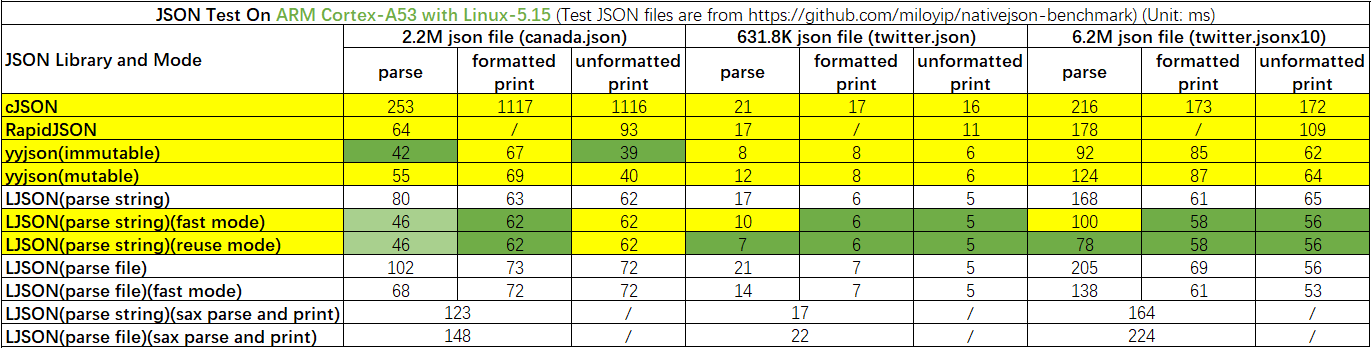
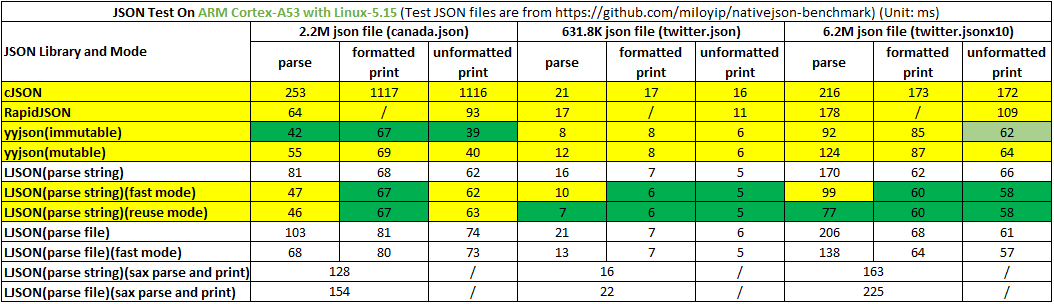
Slightly optimize parsing speed

diff --git a/json.c b/json.c
@@ -543,14 +543,14 @@ json_object* json_search_object_item(json_items_t *items, json_string_t *jkey, u
                     if (hash != items->items[i].hash)
                         break;
                     json = items->items[i].json;
-                    if (json->key_member && strcmp(jkey->str, json->key_member) == 0)
+                    if (jkey->len == json->jkey.len && memcmp(jkey->str, json->key_member, jkey->len) == 0)
                         return json;
                 }
                 for (i = middle - 1; i >= 0; --i) {
                     if (hash != items->items[i].hash)
                         break;
                     json = items->items[i].json;
-                    if (json->key_member && strcmp(jkey->str, json->key_member) == 0)
+                    if (jkey->len == json->jkey.len && memcmp(jkey->str, json->key_member, jkey->len) == 0)
                         return json;
                 }
             } else {
@@ -1345,12 +1345,11 @@ static int fname(ftype n, char *c)          \
     s[i] = '\0';                            \
                                             \
     h = i >> 1;                             \
-    while (j < h)                           \
-    {                                       \
-        t = i - j - 1;                      \
-        k = s[t];                           \
-        s[t] = s[j];                        \
-        s[j++] = k;                         \
+    while (j < h) {                         \
+        k = i - j - 1;                      \
+        t = s[k];                           \
+        s[k] = s[j];                        \
+        s[j++] = t;                         \
     }                                       \
                                             \
     return i + a;                           \
@@ -1484,17 +1483,11 @@ static int _print_str_ptr_realloc(json_print_t *print_ptr, size_t slen)
     print_ptr->cur += fname(num, print_ptr->cur);   \
 } while(0)
 
-static inline int _print_ptr_strncat(json_print_t *print_ptr, const char *str, size_t slen)
-{
-    _PRINT_PTR_REALLOC((slen + 1));
-    memcpy(print_ptr->cur, str, slen);
-    print_ptr->cur += slen;
-
-    return 0;
-err:
-    return -1;
-}
-#define _PRINT_PTR_STRNCAT(ptr, str, slen) do { if (unlikely(_print_ptr_strncat(ptr, str, slen) < 0)) goto err; } while(0)
+#define _PRINT_PTR_STRNCAT(str, slen)      do {     \
+    _PRINT_PTR_REALLOC((slen + 1));                 \
+    memcpy(print_ptr->cur, str, slen);              \
+    print_ptr->cur += slen;                         \
+} while(0)
 
 static inline int _print_addi_format(json_print_t *print_ptr, size_t depth)
 {
@@ -1620,11 +1613,11 @@ next2a:
             JsonErr("key is null!\n");
             goto err;
 #else
-            _PRINT_PTR_STRNCAT(print_ptr, "\"\":\t", 4);
+            _PRINT_PTR_STRNCAT("\"\":\t", 4);
 #endif
         } else {
             _JSON_PRINT_STRING(print_ptr, &json->jkey);
-            _PRINT_PTR_STRNCAT(print_ptr, ":\t", 2);
+            _PRINT_PTR_STRNCAT(":\t", 2);
         }
     } else {
         if (unlikely(!json->jkey.len)) {
@@ -1632,33 +1625,33 @@ next2a:
             JsonErr("key is null!\n");
             goto err;
 #else
-            _PRINT_PTR_STRNCAT(print_ptr, "\"\":", 3);
+            _PRINT_PTR_STRNCAT("\"\":", 3);
 #endif
         } else {
             _JSON_PRINT_STRING(print_ptr, &json->jkey);
-            _PRINT_PTR_STRNCAT(print_ptr, ":", 1);
+            _PRINT_PTR_STRNCAT(":", 1);
         }
     }
     goto next3;
 
 next2b:
     if (print_ptr->format_flag) {
-        if (json->type_member == JSON_OBJECT || json->type_member == JSON_ARRAY)
+        if (json->type_member == JSON_ARRAY)
             _PRINT_ADDI_FORMAT(print_ptr, item_depth + 1);
         else
-            _PRINT_PTR_STRNCAT(print_ptr, " ", 1);
+            _PRINT_PTR_STRNCAT(" ", 1);
     }
 
 next3:
     switch (json->type_member) {
     case JSON_NULL:
-        _PRINT_PTR_STRNCAT(print_ptr, "null", 4);
+        _PRINT_PTR_STRNCAT("null", 4);
         break;
     case JSON_BOOL:
         if (json->value.vnum.vbool) {
-            _PRINT_PTR_STRNCAT(print_ptr, "true", 4);
+            _PRINT_PTR_STRNCAT("true", 4);
         } else {
-            _PRINT_PTR_STRNCAT(print_ptr, "false", 5);
+            _PRINT_PTR_STRNCAT("false", 5);
         }
         break;
     case JSON_INT:
@@ -1680,24 +1673,24 @@ next3:
         break;
     case JSON_STRING:
         if (unlikely(!json->value.vstr.len)) {
-            _PRINT_PTR_STRNCAT(print_ptr, "\"\"", 2);
+            _PRINT_PTR_STRNCAT("\"\"", 2);
         } else {
             _JSON_PRINT_STRING(print_ptr, &json->value.vstr);
         }
         break;
     case JSON_OBJECT:
         if (unlikely(json->value.head.prev == (struct json_list *)&json->value.head)) {
-            _PRINT_PTR_STRNCAT(print_ptr, "{}", 2);
+            _PRINT_PTR_STRNCAT("{}", 2);
             break;
         }
-        _PRINT_PTR_STRNCAT(print_ptr, "{", 1);
+        _PRINT_PTR_STRNCAT("{", 1);
         goto next1;
     case JSON_ARRAY:
         if (unlikely(json->value.head.prev == (struct json_list *)&json->value.head)) {
-            _PRINT_PTR_STRNCAT(print_ptr, "[]", 2);
+            _PRINT_PTR_STRNCAT("[]", 2);
             break;
         }
-        _PRINT_PTR_STRNCAT(print_ptr, "[", 1);
+        _PRINT_PTR_STRNCAT("[", 1);
         goto next1;
     default:
         break;
@@ -1708,7 +1701,7 @@ next4:
     if (likely(item_depth >= 0)) {
         tmp = (json_object*)(json->list.next);
         if (likely(&tmp->list != (struct json_list *)&parent->value.head)) {
-            _PRINT_PTR_STRNCAT(print_ptr, ",", 1);
+            _PRINT_PTR_STRNCAT(",", 1);
             json = tmp;
             if (parent->type_member == JSON_OBJECT)
                 goto next2a;
@@ -1720,21 +1713,21 @@ next4:
                     if (item_depth > 0) {
                         _PRINT_ADDI_FORMAT(print_ptr, item_depth);
                     } else {
-                        _PRINT_PTR_STRNCAT(print_ptr, "\n", 1);
+                        _PRINT_PTR_STRNCAT("\n", 1);
                     }
                 }
-                _PRINT_PTR_STRNCAT(print_ptr, "}", 1);
+                _PRINT_PTR_STRNCAT("}", 1);
             } else {
                 if (print_ptr->format_flag) {
                     if (json->type_member == JSON_OBJECT || json->type_member == JSON_ARRAY) {
                         if (likely(item_depth > 0)) {
                             _PRINT_ADDI_FORMAT(print_ptr, item_depth);
                         } else {
-                            _PRINT_PTR_STRNCAT(print_ptr, "\n", 1);
+                            _PRINT_PTR_STRNCAT("\n", 1);
                         }
                     }
                 }
-                _PRINT_PTR_STRNCAT(print_ptr, "]", 1);
+                _PRINT_PTR_STRNCAT("]", 1);
             }
 
             ++print_ptr->item_count;
@@ -1883,7 +1876,7 @@ int json_sax_print_value(json_sax_print_hd handle, json_type_t type, json_string
         && !((type == JSON_ARRAY || type == JSON_OBJECT) && (*(json_sax_cmd_t*)value) == JSON_SAX_FINISH))) {
         // add ","
         if (print_handle->array[cur_pos].num > 0)
-            _PRINT_PTR_STRNCAT(print_ptr, ",", 1);
+            _PRINT_PTR_STRNCAT(",", 1);
 
         // add key
         if (print_handle->array[cur_pos].type == JSON_OBJECT) {
@@ -1894,13 +1887,13 @@ int json_sax_print_value(json_sax_print_hd handle, json_type_t type, json_string
                     goto err;
 #else
                     _PRINT_ADDI_FORMAT(print_ptr, print_handle->count);
-                    _PRINT_PTR_STRNCAT(print_ptr, "\"\":\t", 4);
+                    _PRINT_PTR_STRNCAT("\"\":\t", 4);
 #endif
                 } else {
                     _PRINT_ADDI_FORMAT(print_ptr, print_handle->count);
                     json_string_info_update(jkey);
                     _JSON_PRINT_STRING(print_ptr, jkey);
-                    _PRINT_PTR_STRNCAT(print_ptr, ":\t", 2);
+                    _PRINT_PTR_STRNCAT(":\t", 2);
                 }
             } else {
                 if (unlikely(!jkey || !jkey->str || !jkey->str[0])) {
@@ -1908,21 +1901,25 @@ int json_sax_print_value(json_sax_print_hd handle, json_type_t type, json_string
                     JsonErr("key is null!\n");
                     goto err;
 #else
-                    _PRINT_PTR_STRNCAT(print_ptr, "\"\":", 3);
+                    _PRINT_PTR_STRNCAT("\"\":", 3);
 #endif
                 } else {
                     json_string_info_update(jkey);
                     _JSON_PRINT_STRING(print_ptr, jkey);
-                    _PRINT_PTR_STRNCAT(print_ptr, ":", 1);
+                    _PRINT_PTR_STRNCAT(":", 1);
                 }
             }
         } else {
             if (print_ptr->format_flag) {
-                if (type == JSON_OBJECT || type == JSON_ARRAY) {
+                if (type == JSON_ARRAY) {
                     _PRINT_ADDI_FORMAT(print_ptr, print_handle->count);
                 } else {
-                    if (print_handle->array[cur_pos].num > 0)
-                        _PRINT_PTR_STRNCAT(print_ptr, " ", 1);
+                    if (print_handle->array[cur_pos].num > 0) {
+                        _PRINT_PTR_STRNCAT(" ", 1);
+                    } else {
+                        if (type == JSON_OBJECT)
+                            _PRINT_ADDI_FORMAT(print_ptr, print_handle->count);
+                    }
                 }
             }
         }
@@ -1931,13 +1928,13 @@ int json_sax_print_value(json_sax_print_hd handle, json_type_t type, json_string
     // add value
     switch (type) {
     case JSON_NULL:
-        _PRINT_PTR_STRNCAT(print_ptr, "null", 4);
+        _PRINT_PTR_STRNCAT("null", 4);
         break;
     case JSON_BOOL:
         if ((*(bool*)value)) {
-            _PRINT_PTR_STRNCAT(print_ptr, "true", 4);
+            _PRINT_PTR_STRNCAT("true", 4);
         } else {
-            _PRINT_PTR_STRNCAT(print_ptr, "false", 5);
+            _PRINT_PTR_STRNCAT("false", 5);
         }
         break;
 
@@ -1961,7 +1958,7 @@ int json_sax_print_value(json_sax_print_hd handle, json_type_t type, json_string
     case JSON_STRING:
         jstr = (json_string_t*)value;
         if (unlikely(!jstr || !jstr->str || !jstr->str[0])) {
-            _PRINT_PTR_STRNCAT(print_ptr, "\"\"", 2);
+            _PRINT_PTR_STRNCAT("\"\"", 2);
         } else {
             json_string_info_update(jstr);
             _JSON_PRINT_STRING(print_ptr, jstr);
@@ -1981,9 +1978,9 @@ int json_sax_print_value(json_sax_print_hd handle, json_type_t type, json_string
                 }
             }
             if (type == JSON_OBJECT) {
-                _PRINT_PTR_STRNCAT(print_ptr, "{", 1);
+                _PRINT_PTR_STRNCAT("{", 1);
             } else {
-                _PRINT_PTR_STRNCAT(print_ptr, "[", 1);
+                _PRINT_PTR_STRNCAT("[", 1);
             }
             if (print_handle->count > 0)
                 ++print_handle->array[cur_pos].num;
@@ -2008,13 +2005,13 @@ int json_sax_print_value(json_sax_print_hd handle, json_type_t type, json_string
                         }
                     }
                 } else {
-                    _PRINT_PTR_STRNCAT(print_ptr, "\n", 1);
+                    _PRINT_PTR_STRNCAT("\n", 1);
                 }
             }
             if (type == JSON_OBJECT) {
-                _PRINT_PTR_STRNCAT(print_ptr, "}", 1);
+                _PRINT_PTR_STRNCAT("}", 1);
             } else {
-                _PRINT_PTR_STRNCAT(print_ptr, "]", 1);
+                _PRINT_PTR_STRNCAT("]", 1);
             }
             --print_handle->count;
             print_handle->last_type = type;
@@ -2716,7 +2713,7 @@ next3:
         break;
 
     case 'f':
-        if (strncmp(str, "false", 5) == 0) {
+        if (likely(parse_ptr->size - parse_ptr->offset >= 5 && memcmp("false", str, 5) == 0)) {
             item->type_member = JSON_BOOL;
             item->value.vnum.vbool = false;
             _UPDATE_PARSE_OFFSET(5);
@@ -2726,7 +2723,7 @@ next3:
         }
         break;
     case 't':
-        if (strncmp(str, "true", 4) == 0) {
+        if (likely(parse_ptr->size - parse_ptr->offset >= 4 && memcmp("true", str, 4) == 0)) {
             item->type_member = JSON_BOOL;
             item->value.vnum.vbool = true;
             _UPDATE_PARSE_OFFSET(4);
@@ -2737,7 +2734,7 @@ next3:
         break;
 
     case 'n':
-        if (strncmp(str, "null", 4) == 0) {
+        if (likely(parse_ptr->size - parse_ptr->offset >= 4 && memcmp("null", str, 4) == 0)) {
             item->type_member = JSON_NULL;
             _UPDATE_PARSE_OFFSET(4);
         } else {
@@ -3119,7 +3116,7 @@ next3:
         break;
 
     case 'f':
-        if (strncmp(str, "false", 5) == 0) {
+        if (likely(parse_ptr->size - parse_ptr->offset >= 5 && memcmp("false", str, 5) == 0)) {
             item->type_member = JSON_BOOL;
             item->value.vnum.vbool = false;
             _UPDATE_PARSE_OFFSET(5);
@@ -3129,7 +3126,7 @@ next3:
         }
         break;
     case 't':
-        if (strncmp(str, "true", 4) == 0) {
+        if (likely(parse_ptr->size - parse_ptr->offset >= 4 && memcmp("true", str, 4) == 0)) {
             item->type_member = JSON_BOOL;
             item->value.vnum.vbool = true;
             _UPDATE_PARSE_OFFSET(4);
@@ -3140,7 +3137,7 @@ next3:
         break;
 
     case 'n':
-        if (strncmp(str, "null", 4) == 0) {
+        if (likely(parse_ptr->size - parse_ptr->offset >= 4 && memcmp("null", str, 4) == 0)) {
             item->type_member = JSON_NULL;
             _UPDATE_PARSE_OFFSET(4);
         } else {
@@ -3509,7 +3506,7 @@ next3:
         break;
 
     case 'f':
-        if (strncmp(str, "false", 5) == 0) {
+        if (likely(parse_ptr->size - parse_ptr->offset >= 5 && memcmp("false", str, 5) == 0)) {
             jkey->type = JSON_BOOL;
             value->vnum.vbool = false;
             _UPDATE_PARSE_OFFSET(5);
@@ -3519,7 +3516,7 @@ next3:
         }
         break;
     case 't':
-        if (strncmp(str, "true", 4) == 0) {
+        if (likely(parse_ptr->size - parse_ptr->offset >= 4 && memcmp("true", str, 4) == 0)) {
             jkey->type = JSON_BOOL;
             value->vnum.vbool = true;
             _UPDATE_PARSE_OFFSET(4);
@@ -3530,7 +3527,7 @@ next3:
         break;
 
     case 'n':
-        if (strncmp(str, "null", 4) == 0) {
+        if (likely(parse_ptr->size - parse_ptr->offset >= 4 && memcmp("null", str, 4) == 0)) {
             jkey->type = JSON_NULL;
             _UPDATE_PARSE_OFFSET(4);
         } else {

diff --git a/README_zh-cn.md b/README_zh-cn.md
@@ -57,12 +57,12 @@ make O=<编译输出目录> CROSS_COMPILE=<交叉编译器前缀> && make O=<编
 注：主要是测试速度，`O2` 优化等级且默认选项编译，测试文件来自 [nativejson-benchmark](https://github.com/miloyip/nativejson-benchmark) 项目
 
 > 测试平台: Ambarella CV25M Board | CPU: ARM CortexA53 | OS: Linux-5.15<br>
-> 测试结果: LJSON 比cJSON 解析最快可达 450%，打印最快可达 1700%，LJSON 比 RapidJSON 解析最快可达 128%，打印最快可达 95%
+> 测试结果: LJSON 比cJSON 解析最快可达 450%，打印最快可达 1700%，LJSON 比 RapidJSON 解析最快可达 131%，打印最快可达 88%
 
 ![AARCH64-Linux测试结果](test_result/test_for_aarch64.png)
 
 > 测试平台: PC | CPU: Intel i7-10700 | OS: Ubuntu 18.04 (VirtualBox)<br>
-> 测试结果: :LJSON 比cJSON 解析最快可达 557%，打印最快可达 2058%，LJSON 比 RapidJSON 解析最快可达 60%，打印最快可达 111%
+> 测试结果: :LJSON 比cJSON 解析最快可达 549%，打印最快可达 2042%，LJSON 比 RapidJSON 解析最快可达 73%，打印最快可达 107%
 
 ![x86_64-Linux测试结果](test_result/test_for_x86_64.png)
 

diff --git a/README.md b/README.md
@@ -57,12 +57,12 @@ make O=<output path> CROSS_COMPILE=<tool prefix> && make O=<output path> DESTDIR
 Note: 'O2' optimization level and default option compilation, the test files come from the [nativejson-benchmark](https://github.com/miloyip/nativejson-benchmark) project
 
 > Test Platform: Ambarella CV25M Board | CPU: ARM CortexA53 | OS: Linux-5.15<br>
-> Test Result: LJSON parses 450% faster and prints 1700% faster than cJSON, LJSON parses 128% faster and prints 95% faster than RapidJSON
+> Test Result: LJSON parses 450% faster and prints 1700% faster than cJSON, LJSON parses 131% faster and prints 88% faster than RapidJSON
 
 ![AARCH64-Linux Test Result](test_result/test_for_aarch64.png)
 
 > Test Platform: PC | CPU: Intel i7-10700 | OS: Ubuntu 18.04 (VirtualBox)<br>
-> Test Result: LJSON parses 557% faster and prints 2058% faster than cJSON, LJSON parses 60% faster and prints 111% faster than RapidJSON
+> Test Result: LJSON parses 549% faster and prints 2042% faster than cJSON, LJSON parses 73% faster and prints 107% faster than RapidJSON
 
 ![x86_64-Linux Test Result](test_result/test_for_x86_64.png)
 
